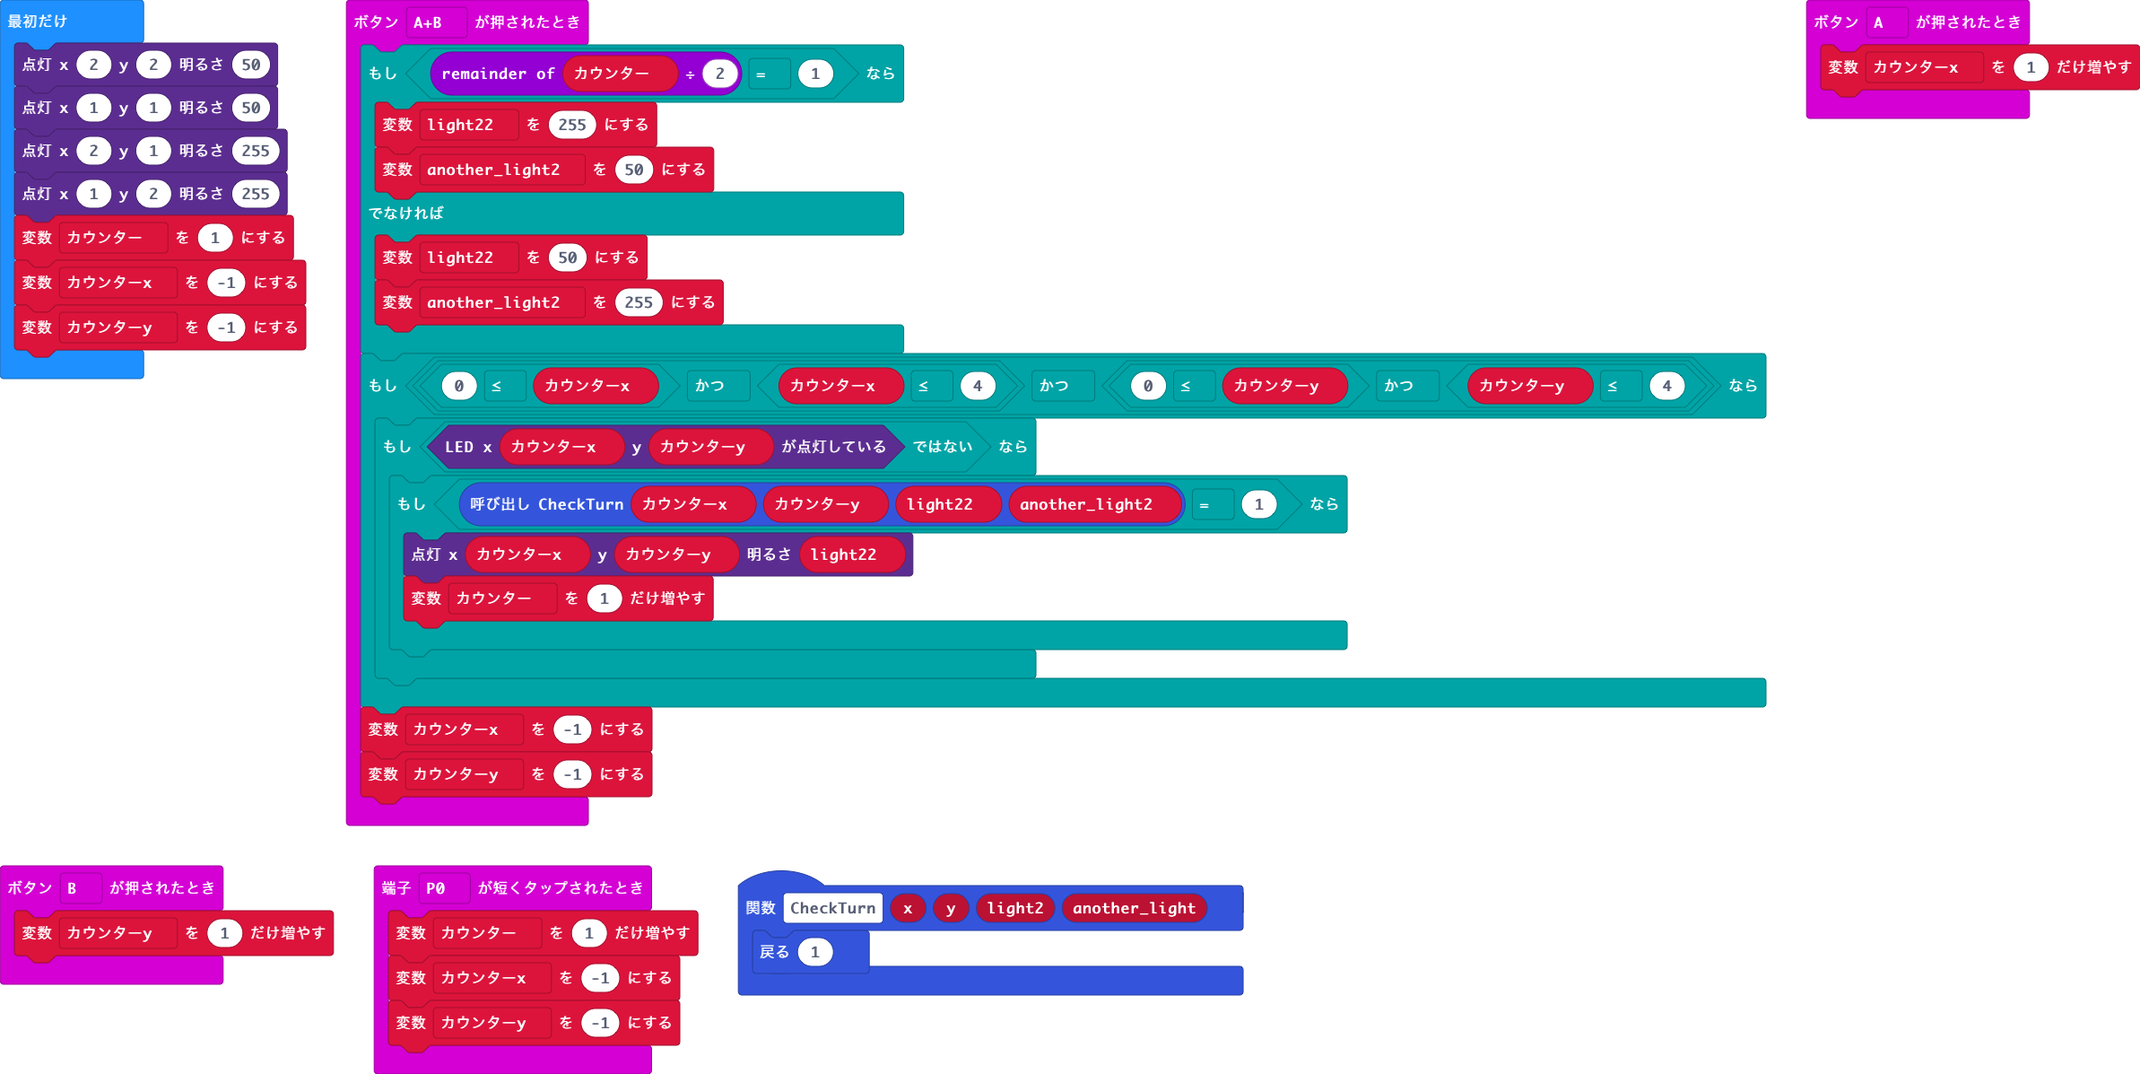
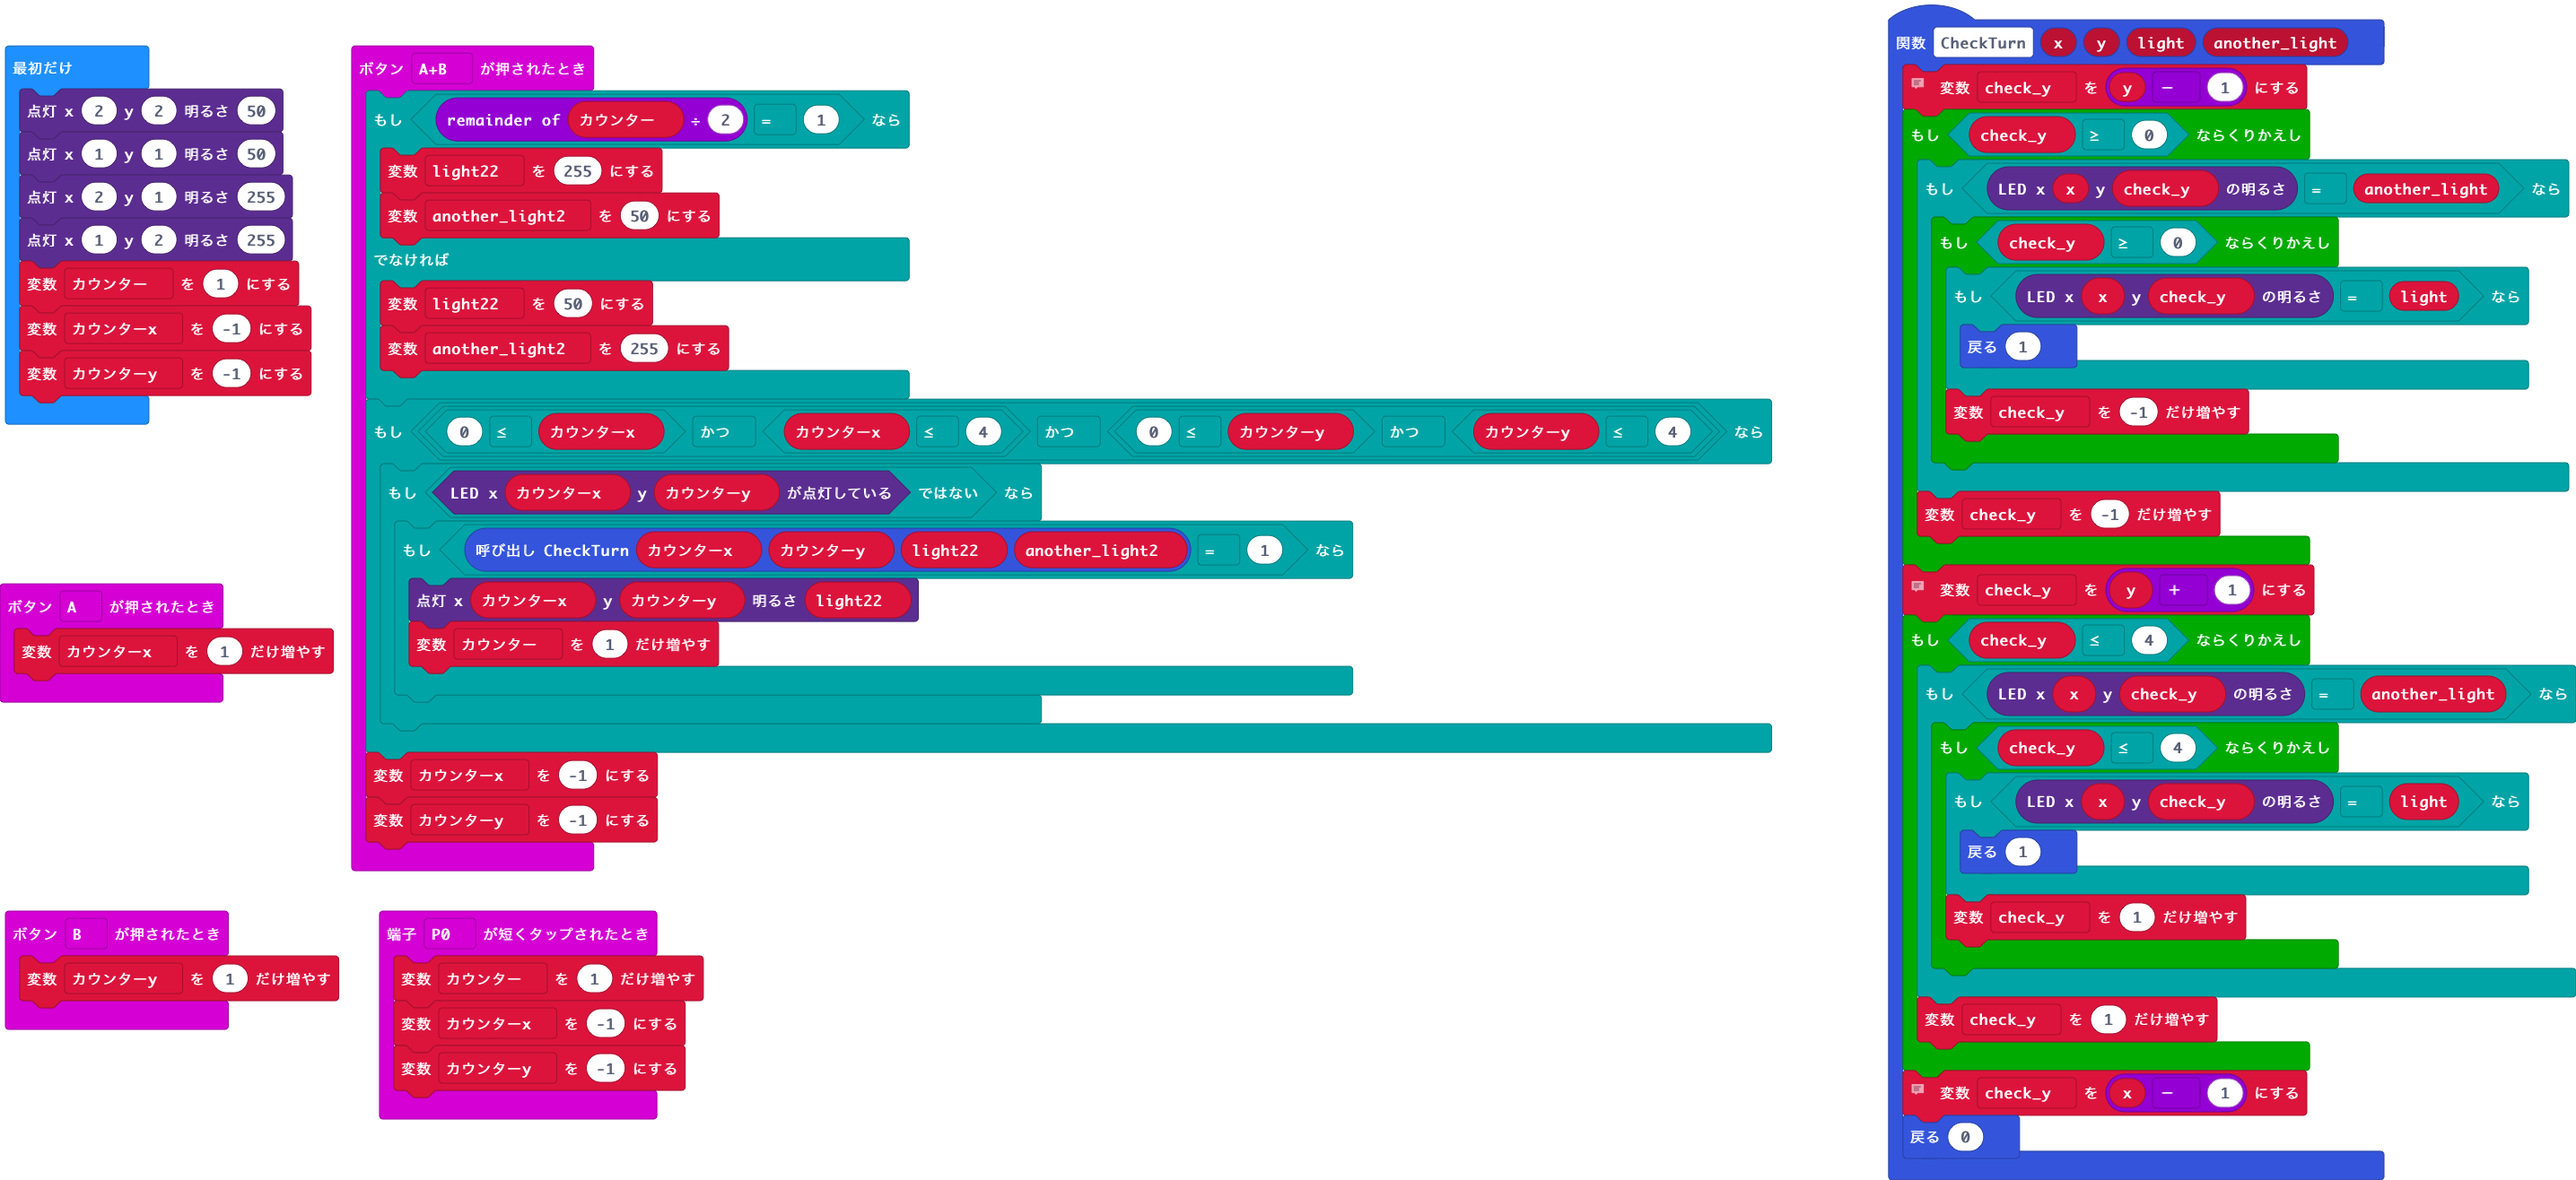
更新 main.blocks, main.ts

diff --git a/main.ts b/main.ts
@@ -7,7 +7,35 @@ input.onButtonPressed(Button.A, function () {
     カウンターx += 1
 })
 function CheckTurn (x: number, y: number, light2: number, another_light: number) {
-    return 1
+    // 上方向
+    check_y = y - 1
+    while (check_y >= 0) {
+        if (led.pointBrightness(x, check_y) == another_light) {
+            while (check_y >= 0) {
+                if (led.pointBrightness(x, check_y) == light2) {
+                    return 1
+                }
+                check_y += -1
+            }
+        }
+        check_y += -1
+    }
+    // 下方向
+    check_y = y + 1
+    while (check_y <= 4) {
+        if (led.pointBrightness(x, check_y) == another_light) {
+            while (check_y <= 4) {
+                if (led.pointBrightness(x, check_y) == light2) {
+                    return 1
+                }
+                check_y += 1
+            }
+        }
+        check_y += 1
+    }
+    // 左方向
+    check_y = x - 1
+    return 0
 }
 input.onButtonPressed(Button.AB, function () {
     if (カウンター % 2 == 1) {
@@ -33,6 +61,7 @@ input.onButtonPressed(Button.B, function () {
 })
 let another_light2 = 0
 let light22 = 0
+let check_y = 0
 let カウンターy = 0
 let カウンターx = 0
 let カウンター = 0
